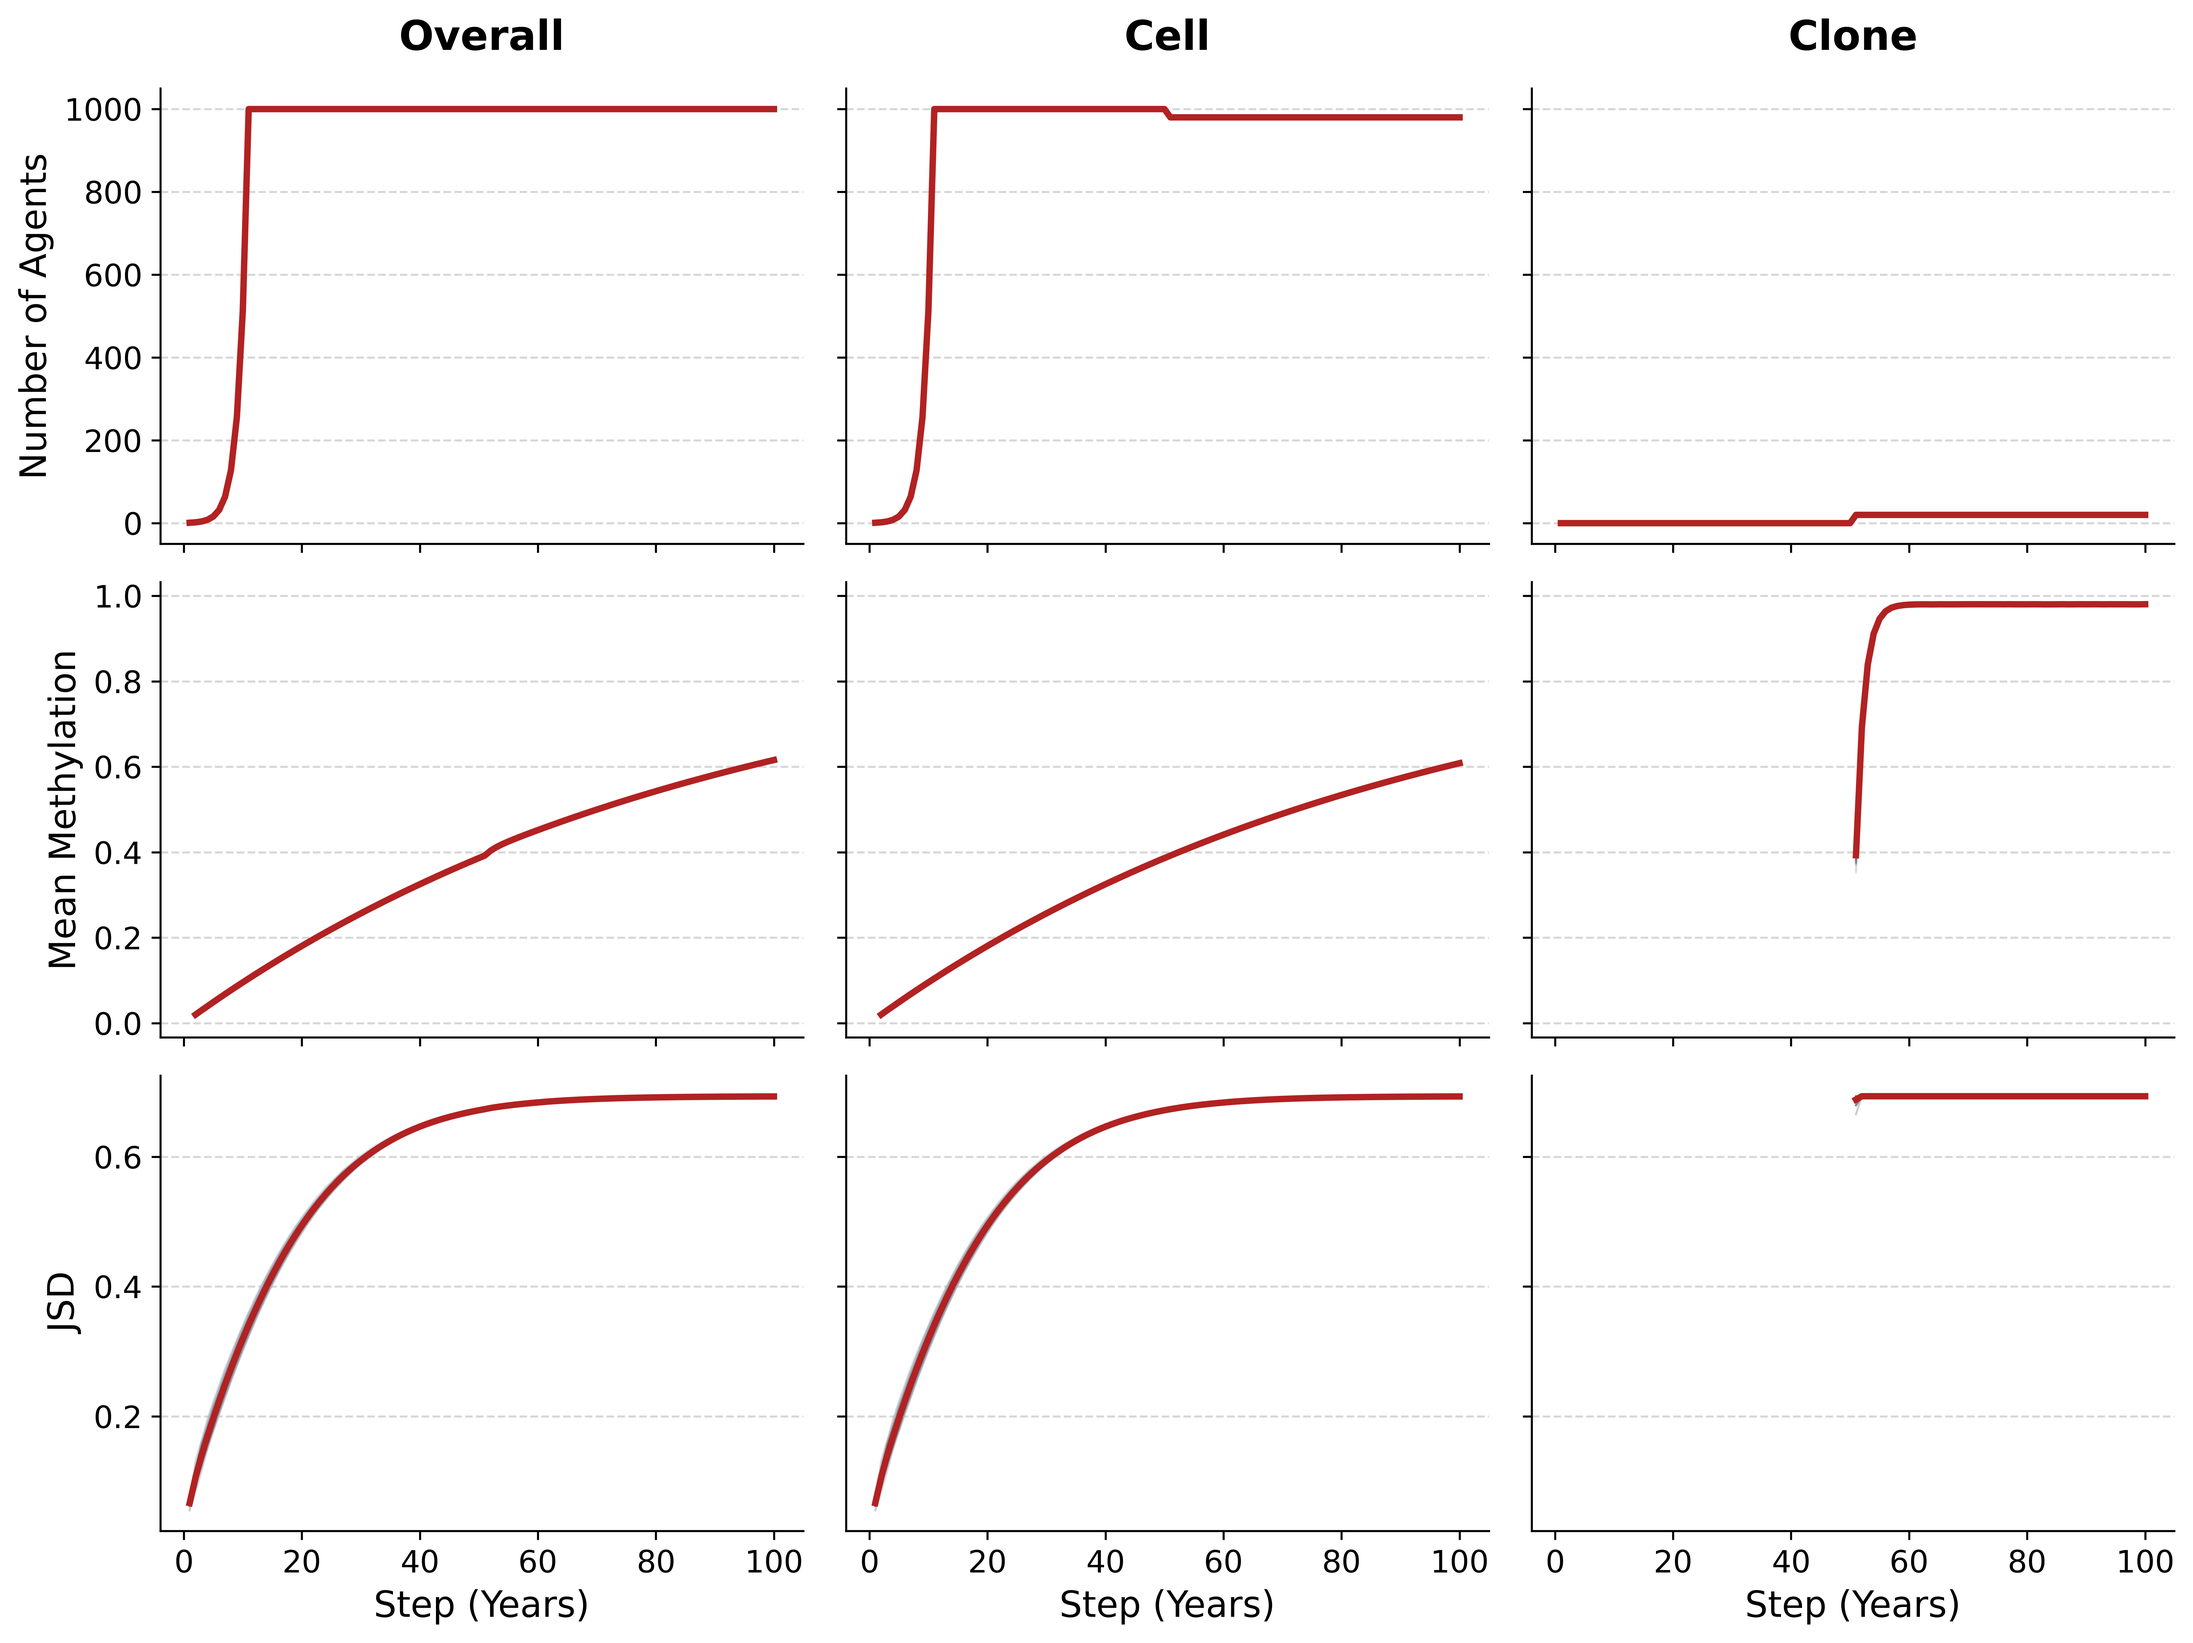
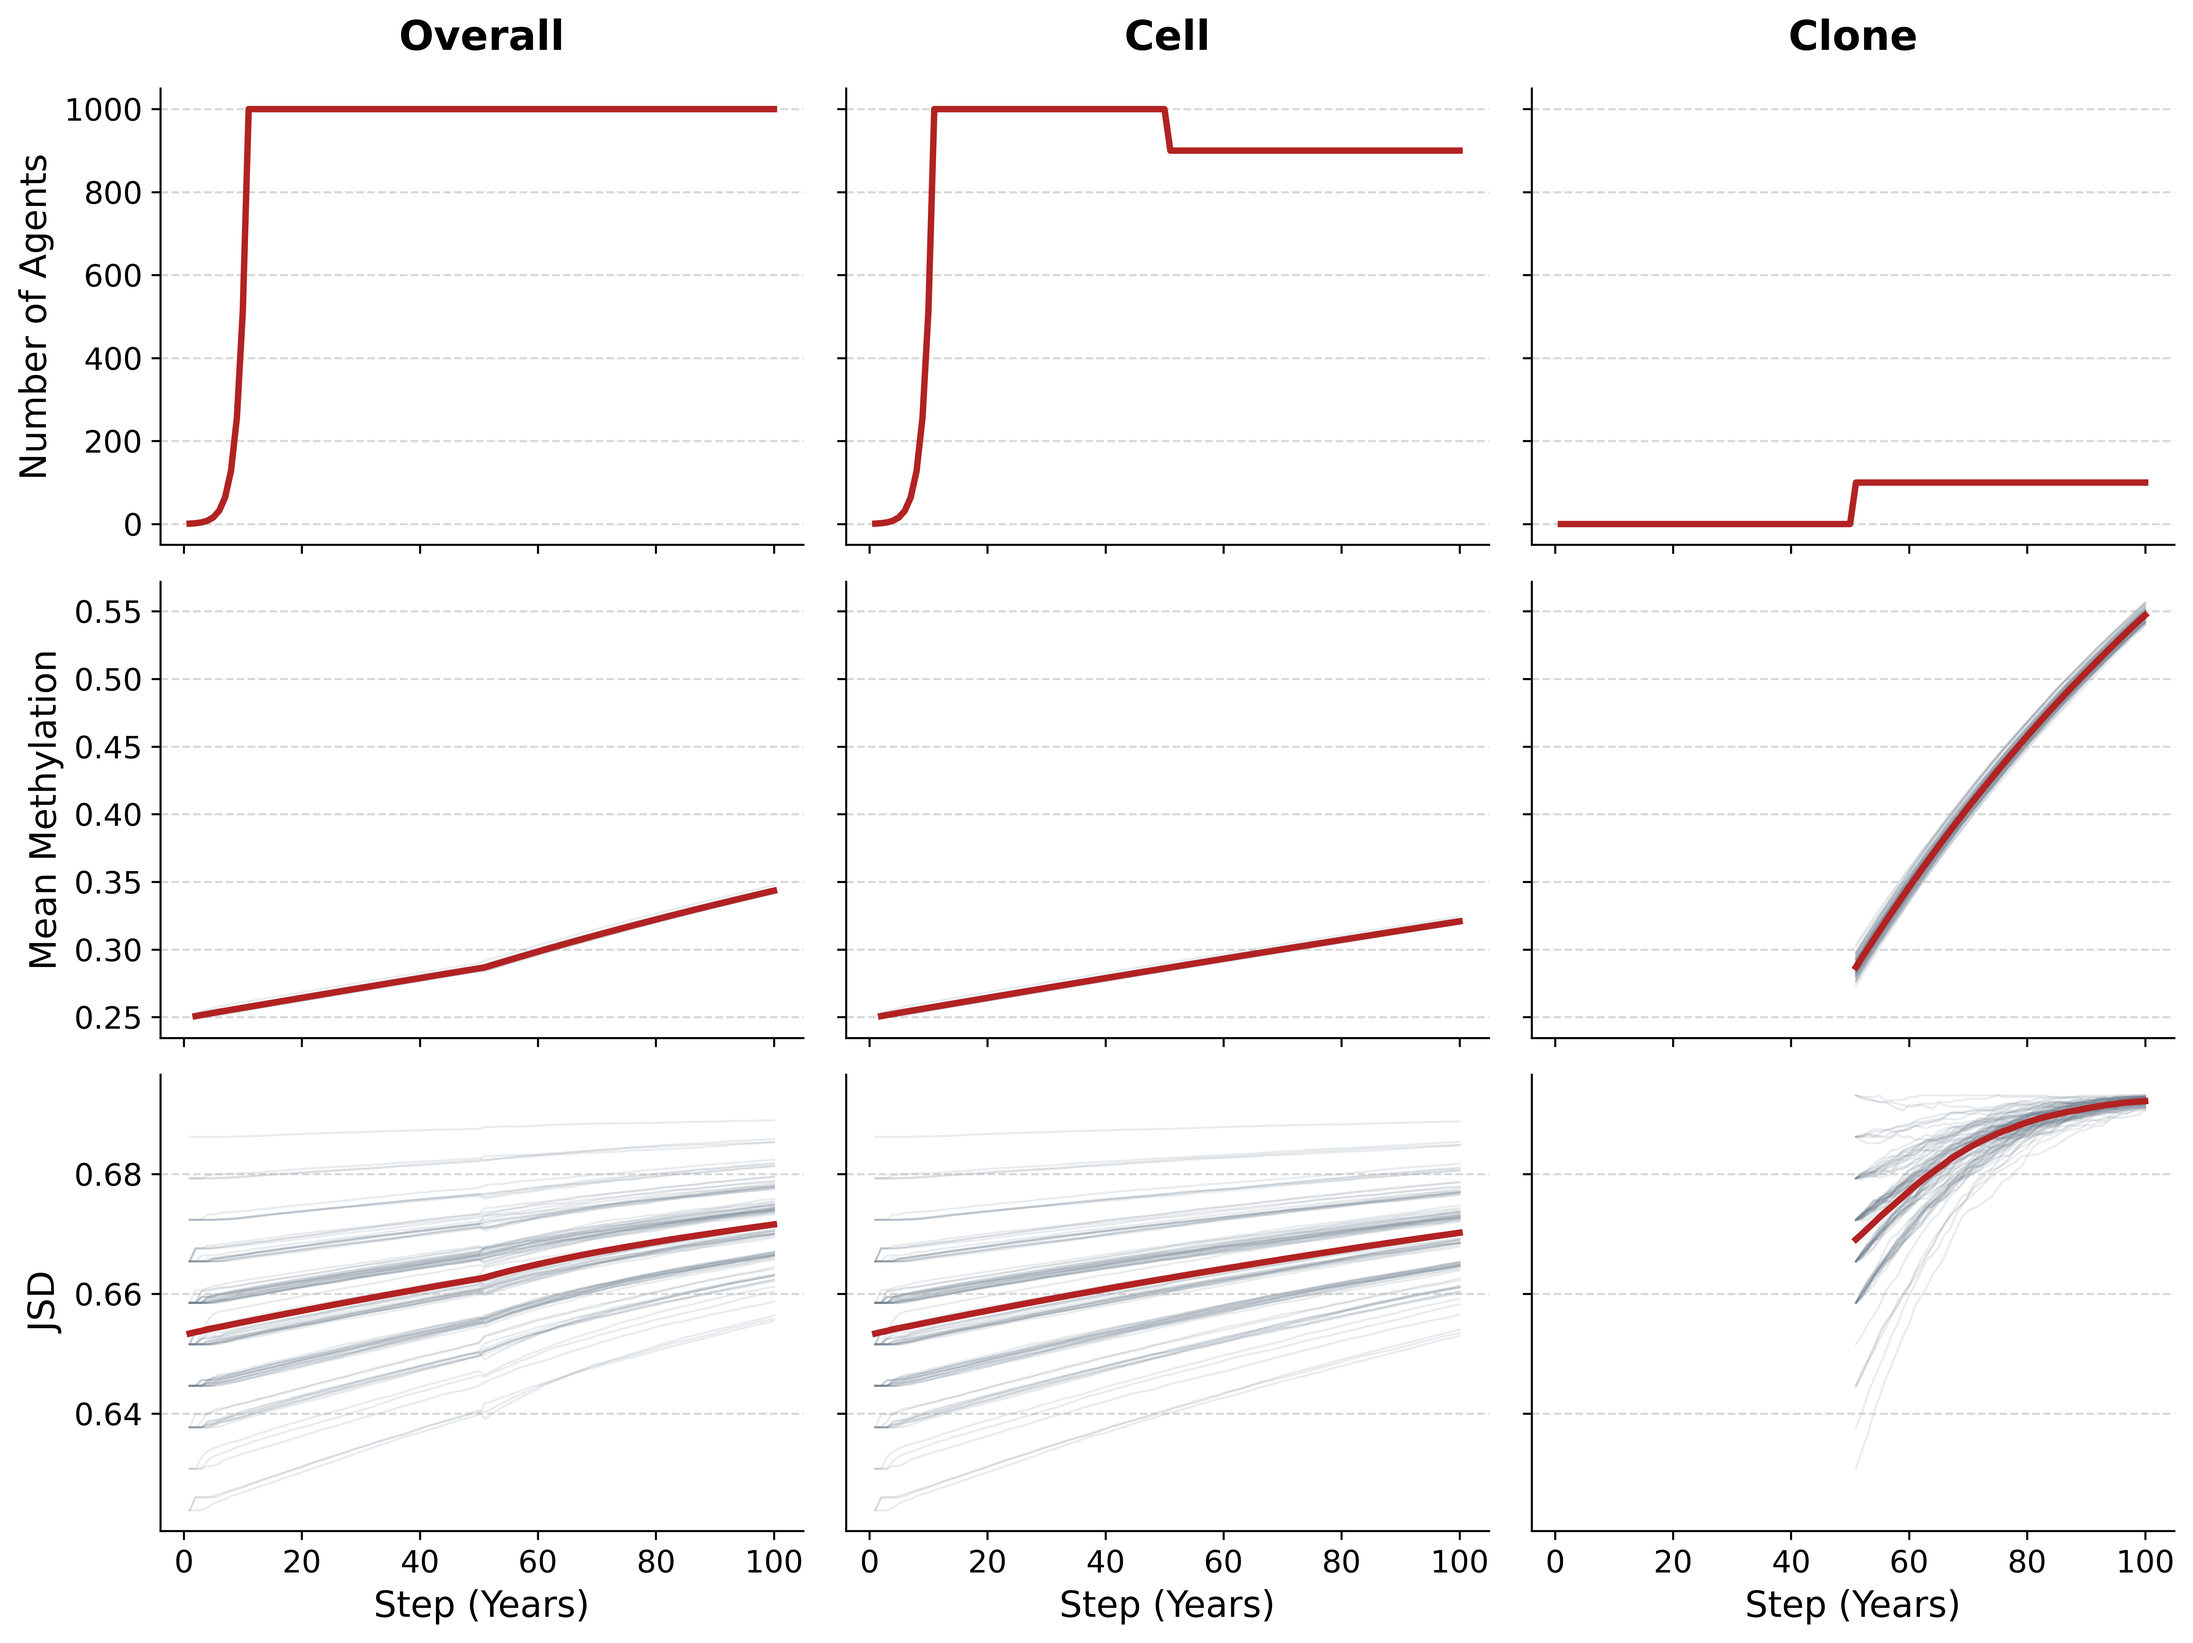
update README

diff --git a/README.md b/README.md
@@ -89,7 +89,7 @@ uv run main.py --n-agents 100 --prop-chip 1e-6 --p-duplicate 1.0 --p-die 0.0
 
 ### Simulating 1% Clones at age 40 with a strong selection advantage over Cells
 
-The selection advantage (s) is given by `p_duplicate - p_die`. As stated above, if this value is positive then Clones have a fitness advantage over Cells. There are an infinite number of ways to tune these values to achieve the same value for `s`. See below for more information.
+The selection advantage (s) is given by `p_duplicate - p_die`. As stated above, if this value is positive then Clones have a fitness advantage over Cells. There are an infinite number of ways to tune these values to achieve the same value for `s`.
 
 ```{bash}
 uv run main.py --chip-time 40 --prop-chip 0.01 --p-duplicate 0.25 --p-die 0.2
@@ -99,10 +99,16 @@ uv run main.py --chip-time 40 --prop-chip 0.01 --p-duplicate 0.25 --p-die 0.2
 
 ### Simulating different methylation drift/maintenance rates for Cells and Clones
 
-The random chance of methylating or unmethylating a given CpG can be controlled for Cells and Clones independently. The initial methylation state of a Cell can also be set to simulate a founder Cell with a proportion methylation > 0.0 (1% below).
+The random chance of methylating or unmethylating a given CpG can be controlled for Cells and Clones independently. The initial methylation state of the founder Cell can also be set to simulate a founder Cell with a proportion methylation != 0.0.
 
 ```{bash}
-uv run main.py --init-meth 0.01 --p-meth 0.01 --p-unmeth 0.001 --p-meth-clone 0.5 --p-unmeth-clone 0.01
+uv run main.py \
+  --init-meth 0.25 \
+  --prop-chip 0.1 \
+  --p-meth 0.001 \
+  --p-unmeth 1e-6 \
+  --p-meth-clone 0.01 \
+  --p-unmeth-clone 0.001
 ```
 
 <img src="docs/example4.png" width="800" alt="Plot showing different drift rates and starting values">
